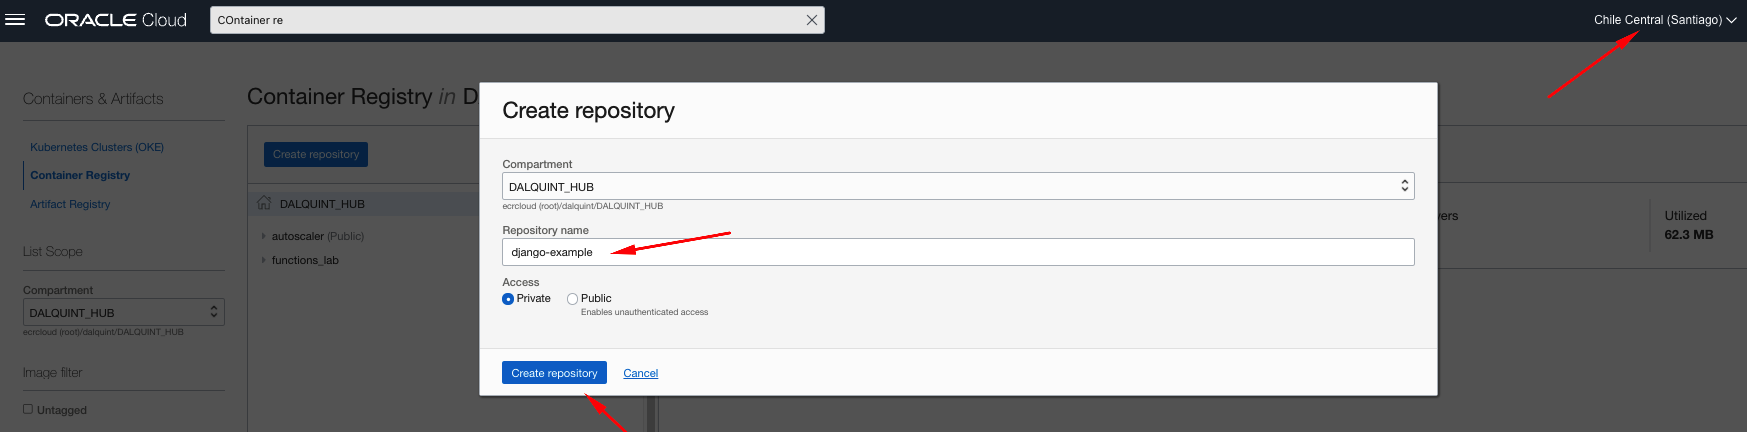
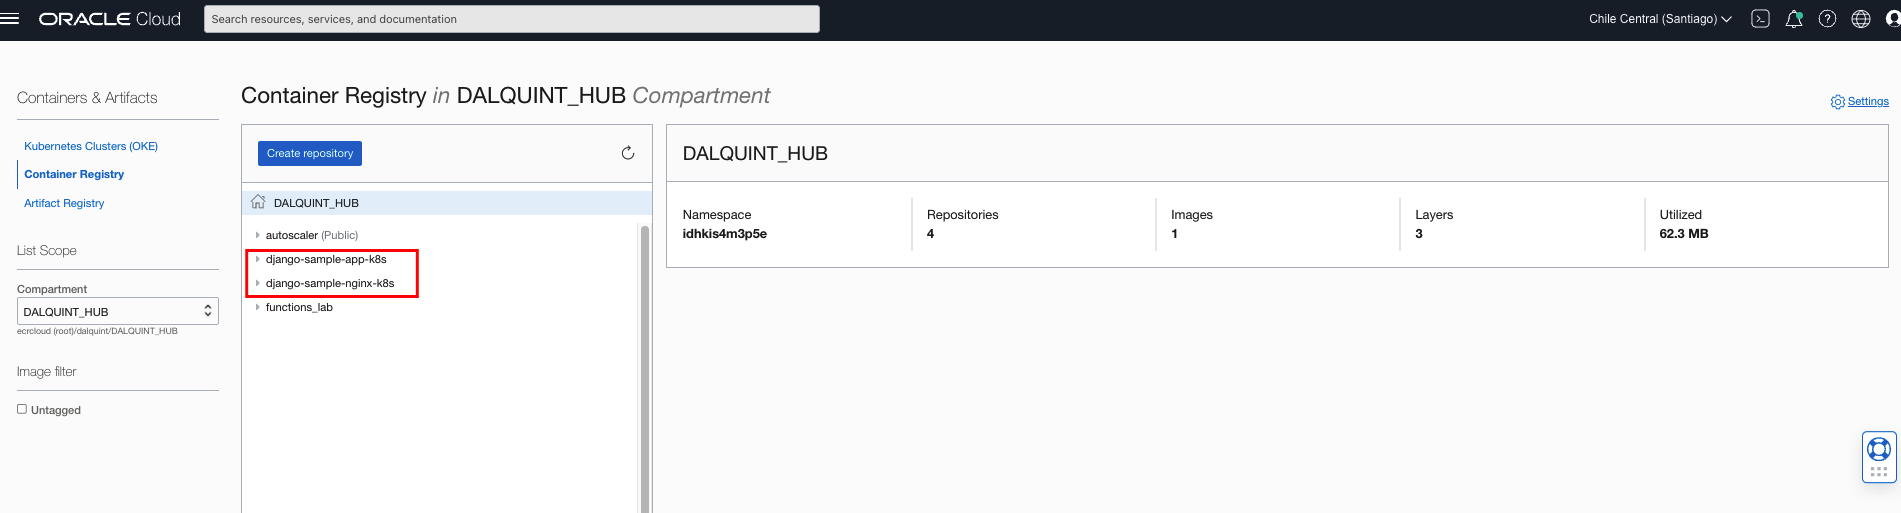
Updating implementation for nginx and OKE with DJango

diff --git a/README.md b/README.md
@@ -60,7 +60,7 @@ Follow instructions in this link: https://www.oracle.com/webfolder/technetwork/t
 
 2. Select a region where you will do the deployment. In my case sa-santiago-1
 
-3. Create a repository: (in this case `django-example`)
+3. Create a repository: (in this case `django-sample-app-k8s` and `django-sample-nginx-k8s`)
 
 ![](./img/ocir_registry.png)
 
@@ -91,46 +91,71 @@ Login Succeeded
 5.1 Get the name of the image: 
 
 ```shell
-(venv) ubuntu@dalquintubuntuarm:~/REPOS/django-k8-sample$ docker image ls
-REPOSITORY   TAG            IMAGE ID       CREATED         SIZE
-django-k8s   v0.0.1         c0c60345a291   2 minutes ago   582MB
-mysql        oracle         00c014d8ea9c   10 hours ago    486MB
-python       3.8.5-alpine   da3ea875dbcd   18 months ago   41.9MB
+(venv) ubuntu@dalquintubuntuarm:~/REPOS/django-k8-sample/k8s_deployment$ docker image ls
+REPOSITORY         TAG             IMAGE ID       CREATED          SIZE
+django-nginx-k8s   v0.0.1          21c339a04fe3   20 seconds ago   19.9MB
+django-app-k8s     v0.0.1          4ac1b0e88b46   27 seconds ago   582MB
+mysql              oracle          bf5b46dfe369   3 days ago       486MB
+python             3.8.5-alpine    da3ea875dbcd   18 months ago    41.9MB
+nginx              1.19.0-alpine   d918ec5de862   22 months ago    19.9MB
 ```
 
 Now tag it
-`docker tag django-k8s:v0.0.1 sa-santiago-1.ocir.io/idhkis4m3p5e/django-example:v0.0.1`
+`docker tag django-app-k8s:v0.0.1 sa-santiago-1.ocir.io/idhkis4m3p5e/django-sample-app-k8s:v0.0.1`
+
+and
+
+`docker tag django-nginx-k8s:v0.0.1 sa-santiago-1.ocir.io/idhkis4m3p5e/django-sample-nginx-k8s:v0.0.1`
+
 
 It'll look like this: 
 
 ```shell
-(venv) ubuntu@dalquintubuntuarm:~/REPOS/django-k8-sample$ docker tag django-k8s:v0.0.1 sa-santiago-1.ocir.io/idhkis4m3p5e/django-example:v0.0.1
-(venv) ubuntu@dalquintubuntuarm:~/REPOS/django-k8-sample$ docker image ls
-REPOSITORY                                          TAG            IMAGE ID       CREATED          SIZE
-django-k8s                                          v0.0.1         c0c60345a291   42 minutes ago   582MB
-sa-santiago-1.ocir.io/idhkis4m3p5e/django-example   v0.0.1         c0c60345a291   42 minutes ago   582MB
-mysql                                               oracle         00c014d8ea9c   10 hours ago     486MB
-python                                              3.8.5-alpine   da3ea875dbcd   18 months ago    41.9MB
+(venv) ubuntu@dalquintubuntuarm:~/REPOS/django-k8-sample/k8s_deployment$ docker image ls
+REPOSITORY                                                   TAG             IMAGE ID       CREATED              SIZE
+django-nginx-k8s                                             v0.0.1          21c339a04fe3   About a minute ago   19.9MB
+sa-santiago-1.ocir.io/idhkis4m3p5e/django-sample-nginx-k8s   v0.0.1          21c339a04fe3   About a minute ago   19.9MB
+sa-santiago-1.ocir.io/idhkis4m3p5e/django-sample-app-k8s     v0.0.1          4ac1b0e88b46   About a minute ago   582MB
+django-app-k8s                                               v0.0.1          4ac1b0e88b46   About a minute ago   582MB
+mysql                                                        oracle          bf5b46dfe369   3 days ago           486MB
+python                                                       3.8.5-alpine    da3ea875dbcd   18 months ago        41.9MB
+nginx                                                        1.19.0-alpine   d918ec5de862   22 months ago        19.9MB
 ```
 
 6. Now push the image by running: 
 
-`docker push sa-santiago-1.ocir.io/idhkis4m3p5e/django-example:v0.0.1`
+`docker push sa-santiago-1.ocir.io/idhkis4m3p5e/django-sample-nginx-k8s:v0.0.1`
+
+and
+
+`docker push sa-santiago-1.ocir.io/idhkis4m3p5e/django-sample-app-k8s:v0.0.1`
 
 ```shell
-docker push sa-santiago-1.ocir.io/idhkis4m3p5e/django-example:v0.0.1The push refers to repository [sa-santiago-1.ocir.io/idhkis4m3p5e/django-example]
-769c416c8509: Pushed 
-e5559eb85182: Pushed 
-e325b7dfaa6b: Pushed 
-1fe556fa6526: Pushed 
-0e03ee088e16: Pushed 
-0c5b2785074b: Pushed 
-27da86305d5e: Pushed 
-798cb960efb8: Pushed 
-8691b6bf9361: Pushed 
-e2f13739ad41: Pushed 
-v0.0.1: digest: sha256:38023537276910bd91fa8819b144050479b268eea3673e603b4f405a71193ad5 size: 2423
+(venv) ubuntu@dalquintubuntuarm:~/REPOS/django-k8-sample/k8s_deployment$ docker push sa-santiago-1.ocir.io/idhkis4m3p5e/django-sample-nginx-k8s:v0.0.1
+The push refers to repository [sa-santiago-1.ocir.io/idhkis4m3p5e/django-sample-nginx-k8s]
+cd891328faf6: Pushed 
+6e4a39e7acca: Pushed 
+8f6d0026c2cc: Mounted from idhkis4m3p5e/django-nginx-k8s 
+6276c65fe4d5: Mounted from idhkis4m3p5e/django-nginx-k8s 
+c52b0b636089: Mounted from idhkis4m3p5e/django-nginx-k8s 
+f2683d3e7323: Mounted from idhkis4m3p5e/django-nginx-k8s 
+678a0785e7d2: Mounted from idhkis4m3p5e/django-nginx-k8s 
+v0.0.1: digest: sha256:59083bfdef1240443ff2cd877c283f92a9ba5c28748b736ecfb57c772401a622 size: 1774
+(venv) ubuntu@dalquintubuntuarm:~/REPOS/django-k8-sample/k8s_deployment$ docker push sa-santiago-1.ocir.io/idhkis4m3p5e/django-sample-app-k8s:v0.0.1
+The push refers to repository [sa-santiago-1.ocir.io/idhkis4m3p5e/django-sample-app-k8s]
+2a72c0f0aa5e: Pushed 
+6faa2d4f8e86: Pushed 
+42f9113c3ae7: Pushed 
+deb0abe52b59: Pushed 
+412cd8383a90: Pushed 
+0c5b2785074b: Mounted from idhkis4m3p5e/django-app-k8s 
+27da86305d5e: Mounted from idhkis4m3p5e/django-app-k8s 
+798cb960efb8: Mounted from idhkis4m3p5e/django-app-k8s 
+8691b6bf9361: Mounted from idhkis4m3p5e/django-app-k8s 
+e2f13739ad41: Mounted from idhkis4m3p5e/django-app-k8s 
+v0.0.1: digest: sha256:bd99d9ee1729a126cc255a52531c34097c47b51d74a1da2ef1762a264d0dfa9c size: 2423
 ```
+
 
 After image is pushed, you will see it on OCIR like this: 
 
@@ -198,6 +223,11 @@ secret/ocirsecret created
 3. Deploy the container: 
 
 `kubectl apply -f k8s_deployment/apps/django-k8s-web.yaml`
+
+
+4. If everything went fine, this is what you should get: 
+
+![](./img/k8_ok.png)
 
 
 # Database side
